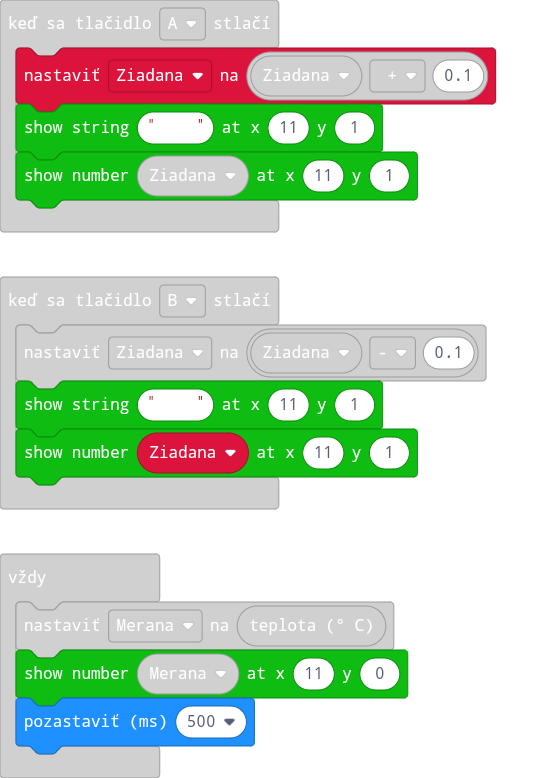
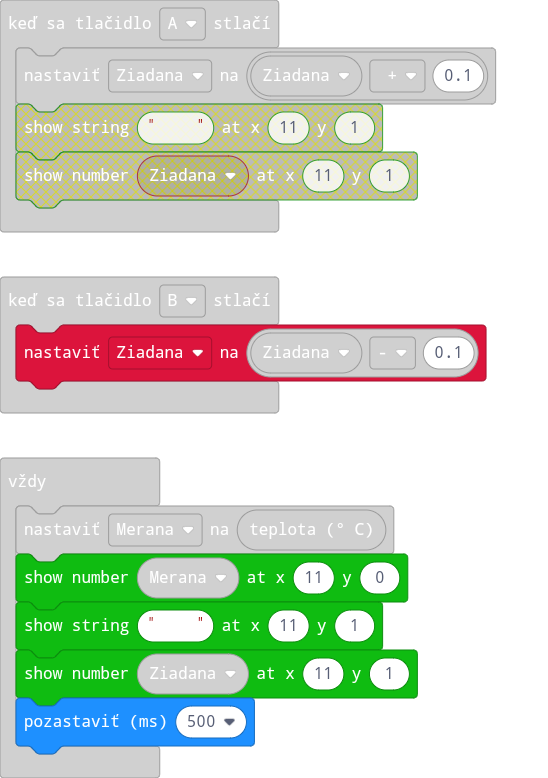
Update main.blocks, main.ts

diff --git a/main.ts b/main.ts
@@ -1,12 +1,8 @@
 input.onButtonPressed(Button.A, function () {
     Ziadana = Ziadana + 0.1
-    I2C_LCD1602.ShowString("    ", 11, 1)
-    I2C_LCD1602.ShowNumber(Ziadana, 11, 1)
 })
 input.onButtonPressed(Button.B, function () {
     Ziadana = Ziadana - 0.1
-    I2C_LCD1602.ShowString("    ", 11, 1)
-    I2C_LCD1602.ShowNumber(Ziadana, 11, 1)
 })
 let Merana = 0
 let Ziadana = 0
@@ -22,5 +18,7 @@ I2C_LCD1602.ShowString("Ziadana T:", 0, 1)
 basic.forever(function () {
     Merana = input.temperature()
     I2C_LCD1602.ShowNumber(Merana, 11, 0)
+    I2C_LCD1602.ShowString("    ", 11, 1)
+    I2C_LCD1602.ShowNumber(Ziadana, 11, 1)
     basic.pause(500)
 })
